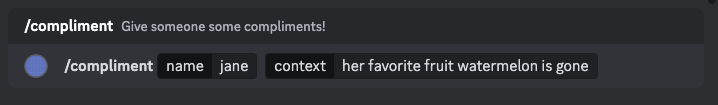
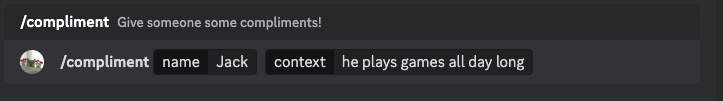
crew of 4

diff --git a/src/index.ts b/src/index.ts
@@ -1,22 +1,39 @@
 import "dotenv/config.js";
-import express from "express";
 import { Client, Events, GatewayIntentBits } from 'discord.js';
 import { Collection } from 'discord.js';
 import { Command } from './interfaces/command';
-import ComplimentCommand from './commands/compliment.js';
+import ComplimentCommand, { register_worker } from './commands/compliment.js';
 
 // Create a new client instance
-const client = new Client({ intents: [GatewayIntentBits.Guilds] });
+const master_bot = new Client({ intents: [GatewayIntentBits.Guilds] });
+const jane_bot = new Client({ intents: [GatewayIntentBits.Guilds] });
+const mike_bot = new Client({ intents: [GatewayIntentBits.Guilds] });
+const jade_bot = new Client({ intents: [GatewayIntentBits.Guilds] });
 
 // When the client is ready, run this code (only once)
 // We use 'c' for the event parameter to keep it separate from the already defined 'client'
-client.once(Events.ClientReady, c => {
+master_bot.once(Events.ClientReady, c => {
 	console.log(`Ready! Logged in as ${c.user.tag}`);
 });
 
 // Log in to Discord with your client's token
-const token = process.env.DISCORD_TOKEN;
-client.login(token);
+const master_token = process.env.DISCORD_MASTER_TOKEN;
+master_bot.login(master_token);
+
+const jane_token = process.env.DISCORD_JANE_TOKEN;
+jane_bot.login(jane_token).then(() => {
+	register_worker('jane', jane_bot);
+});
+
+const mike_token = process.env.DISCORD_MIKE_TOKEN;
+mike_bot.login(mike_token).then(() => {
+	register_worker('mike', mike_bot);
+});
+
+const jade_token = process.env.DISCORD_JADE_TOKEN;
+jade_bot.login(jade_token).then(() => {
+	register_worker('jade', jade_bot);
+});
 
 
 // load commands
@@ -24,7 +41,7 @@ const commands: Collection<string, Command> = new Collection();
 commands.set('compliment', ComplimentCommand);
 
 // route commands
-client.on(Events.InteractionCreate, async interaction => {
+master_bot.on(Events.InteractionCreate, async interaction => {
 	if (!interaction.isChatInputCommand()) return;
 
 	const command = commands.get(interaction.commandName);
@@ -45,7 +62,3 @@ client.on(Events.InteractionCreate, async interaction => {
 		}
 	}
 });
-
-// Otherwise Digital Ocean will complain health check, how stupid they r????
-const app = express();
-app.listen(process.env.PORT || 8080, () => {});

diff --git a/src/commands/compliment.ts b/src/commands/compliment.ts
@@ -1,6 +1,8 @@
-import { CacheType, ChatInputCommandInteraction, SlashCommandBuilder } from "discord.js";
+import { CacheType, ChatInputCommandInteraction, Client, SlashCommandBuilder, TextChannel } from "discord.js";
 import { Command } from "../interfaces/command";
-import { chatgpt_conversation } from "../chatgpt-handler.js";
+import { master_chatgpt_conversation, subsequent_chatgpt_conversation } from "../chatgpt-handler.js";
+const workers: Record<string, Client<boolean>> = {};
+
 const ComplimentCommand: Command = {
     data: new SlashCommandBuilder()
         .setName('compliment')
@@ -9,17 +11,31 @@ const ComplimentCommand: Command = {
         try {
             let name = interaction.options.getString('name')!;
             let context = interaction.options.getString('context')!;
-            chatgpt_conversation(name!, context!, (message: string) => {
-                // trim double quotes
-                if (message.startsWith('"') && message.endsWith('"')) {
-                    message = message.slice(1, -1);
+            let { chat_config: chatgpt, message } = await master_chatgpt_conversation(name, context);
+            interaction.reply(trim(message.content));
+
+            let channel = interaction.channel.id;
+            for (let key in workers) {
+                // if the worker is also in the channel, send message
+                if (workers[key].channels.cache.has(channel)) {
+                    let { chat_config: _, message } = await subsequent_chatgpt_conversation(chatgpt);
+                    (workers[key].channels.cache.get(channel)! as TextChannel)
+                        .send(trim(message.content));
                 }
-                interaction.reply(message);
-            });
-        }catch(e){
+            }
+        } catch (e) {
             interaction.reply("Error. Bot author may need funding to continue service.");
         }
     }
 }
 
+function trim(s: string) {
+    if (s.startsWith('"') && s.endsWith('"')) {
+        s = s.slice(1, -1);
+    }
+    return s;
+}
+export function register_worker(name: string, client: Client<boolean>) {
+    workers[name] = client;
+}
 export default ComplimentCommand;

diff --git a/src/chatgpt-handler.ts b/src/chatgpt-handler.ts
@@ -3,28 +3,35 @@ import { ChatCompletionCreateParamsNonStreaming } from "openai/resources/chat";
 
 
 const openai = new OpenAI({
-    apiKey: process.env.CHATGPT_KEY, // defaults to process.env["OPENAI_API_KEY"]
+    apiKey: process.env.CHATGPT_KEY, 
 });
 
-const chatgpt_conversation = async (name: string, context: string, callback: (message: string) => void) => {
+const master_chatgpt_conversation = async (name: string, context: string) => {
     const chat_config: ChatCompletionCreateParamsNonStreaming = {
         model: "gpt-3.5-turbo",
+        temperature: 0.7,
         messages: [{ "role": "user", "content": initial_prompt(name, context) }],
     };
 
     let response = await openai.chat.completions.create(chat_config);
-    let message = response.choices[0].message;
-    callback(message.content);
+    const message = response.choices[0].message;
     chat_config.messages.push(message);
     chat_config.messages.push({ "role": "user", "content": next_prompt });
-
+    return {chat_config, message};
 }
 
-export { chatgpt_conversation };
+const subsequent_chatgpt_conversation = async (chat_config: ChatCompletionCreateParamsNonStreaming) => {
+    let response = await openai.chat.completions.create(chat_config);
+    const message = response.choices[0].message;
+    chat_config.messages.push(message);
+    chat_config.messages.push({ "role": "user", "content": next_prompt });
+    return {chat_config, message};  
+}
+export { master_chatgpt_conversation, subsequent_chatgpt_conversation };
 
 const initial_prompt = (name: string, context: string) => {
-    return `You are a compliment bot. Give a funny and super silly and sometimes ironic compliment according to the user's name and context.
+    return `You are a compliment bot. Give a supper funny and super silly compliment according to the user's name and context.
     The user's name is ${name}. The context is that ${context}. Give me the plain text only without quotes or double quotes so that I can send to them directly.`
 }
 
-const next_prompt = `Give me another one`
+const next_prompt = `Good, give me another one`

diff --git a/README.md b/README.md
@@ -1,12 +1,36 @@
-<img src="./pics/ComplimentBot.jpg" align="right" width="150"/>
+<img src="./pics/Tom.jpg" align="right" width="150"/>
 <br>
 
-# Discord Silly Compliment Bot
-Invite the Compliment Bot to your server [here](https://discord.com/api/oauth2/authorize?client_id=1157809035907715182&permissions=274877978624&scope=bot%20applications.commands)!
+# Discord Silly Compliment Crew
+Invite the Compliment Crew to your server!
+Invite [Sweet Tom](https://discord.com/api/oauth2/authorize?client_id=1157809035907715182&permissions=274877978624&scope=bot%20applications.commands)! He is the group leader!
+
+Optionally, invite [Sweet Jane](https://discord.com/api/oauth2/authorize?client_id=1158862086013730908&permissions=2048&scope=bot), [Sweet Mike](https://discord.com/api/oauth2/authorize?client_id=1162965677502631966&permissions=2048&scope=bot), [Sweet Jade](https://discord.com/api/oauth2/authorize?client_id=1162976286373851186&permissions=2048&scope=bot)! Everyone in the crew is so good at complimenting!
+
+<table>
+  <tr>
+    <td><img src="./pics/Tom.jpg" width="150"/></td>
+    <td><img src="./pics/Jane.jpg" width="150"/></td>
+    <td><img src="./pics/Mike.jpg" width="150"/></td>
+    <td><img src="./pics/Jade.jpg" width="150"/></td>
+  </tr>
+  <tr>
+    <td><a href="https://discord.com/api/oauth2/authorize?client_id=1157809035907715182&permissions=274877978624&scope=bot%20applications.commands">Tom</a></td>
+    <td><a href="https://discord.com/api/oauth2/authorize?client_id=1158862086013730908&permissions=2048&scope=bot">Jane</a></td>
+    <td><a href="https://discord.com/api/oauth2/authorize?client_id=1162965677502631966&permissions=2048&scope=bot">Mike</a></td>
+    <td><a href="https://discord.com/api/oauth2/authorize?client_id=1162976286373851186&permissions=2048&scope=bot">Jade</a></td>
+  </tr>
+</table>
+
 
 ## User Guide
-Give the name of whom you want to compliment and the context:
+Use the command `/compliment`, and give the name of whom you want to compliment and a littel bit of context:
 <img src="./pics/Prompt.png">
 
-This bot will give you silly compliment:
+Our crew members will give you silly compliments:
 <img src="./pics/Response.png">
+
+If you think 4 crew members complimenting is too much, you can invite Tom only. Or any amount of them you like, as long as Tom is there.
+
+<img src="./pics/Prompt2.png">
+<img src="./pics/Response2.png">
